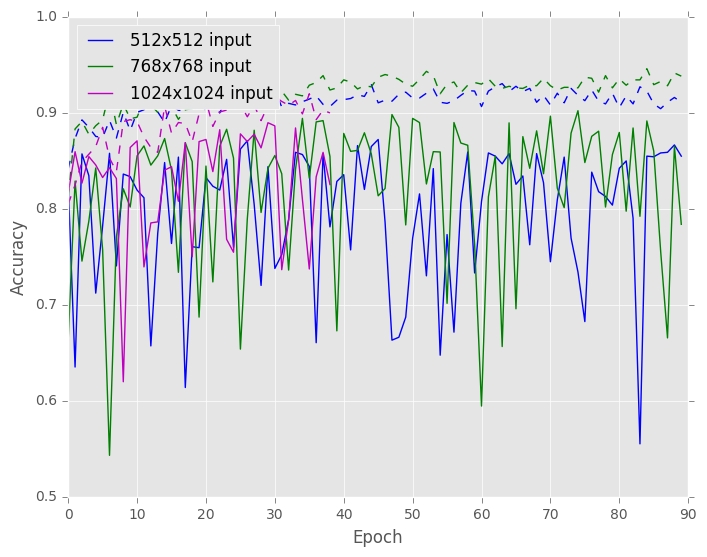
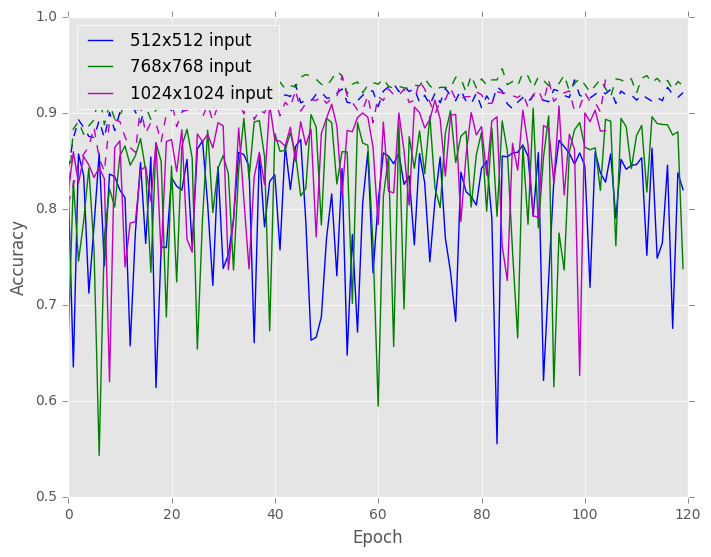
Add results of stacked networks

diff --git a/tex/article.tex b/tex/article.tex
@@ -488,10 +488,8 @@ Increasingly, slides of human tissue are digitized instead of being analysed onl
 
 Visual microscopic interpretation of tissue sections is laborious and prone to subjectivity. \emph{Computer-aided diagnosis (CAD)} has a huge potential in alleviating shortcomings of human interpretation and will reduce the workload of the pathologists. As a result, more accurate diagnostic information may be extracted, helping clinicians in selecting the most optimal treatment for individual patients. CAD can facilitate diagnosis by sieving out obviously benign slides and providing quantitative characterization of suspicious areas.
 
-\subsection{DCIS and IDC}
-A lesion is considered to be a DCIS when there is a proliferation of malignant epithelial cells within the breast parenchymal structures. When these cells are no longer contained within this basement membrane, the carcinoma is invasive and is classified as an invasive ductal carcinoma (IDC) \cite{ellis2010intraductal}.
-
-
+\subsection{Domain? (needs better title)}
+A lesion is considered to be a DCIS when there is a proliferation of malignant epithelial cells within the breast parenchymal structures. When these cells are no longer contained within this basement membrane, the carcinoma is invasive and is classified as an invasive ductal carcinoma (IDC) \cite{ellis2010intraductal}. 
 
 \begin{figure*}[!t]
 \centering
@@ -500,7 +498,7 @@ A lesion is considered to be a DCIS when there is a proliferation of malignant e
 %\hfil
 %\subfloat[Case II]{\includegraphics[width=2.5in]{box}%
 %\label{fig_second_case}}
-\caption{Examples from the three classes we aim to distinguish. (a) Normal tissue and benign lesions. From top-to-bottom, left-to-right: lymphocytes?? with connective tissue surrounding it, mostly fatty tissue, healthy mammal ducts, a ductal hyperplasia which is very similar in appearance to a DCIS lesion. (b) Ductal carcinoma in situ (DCIS), note that the tumor cells are contained within the duct structure. (c) Invasive ductal carcinoma (IDC).}
+\caption{Examples from the three classes we aim to distinguish. (a) Normal tissue and benign lesions. From top-to-bottom, left-to-right: ?? with connective tissue surrounding it, mostly fatty tissue, healthy mammal ducts, a ductal hyperplasia which is very similar in appearance to a DCIS lesion. (b) Ductal carcinoma in situ (DCIS), note that the tumor cells are contained within the duct structure. (c) Invasive ductal carcinoma (IDC).}
 \end{figure*}
 
 \subsection{Patch-based classification}
@@ -873,36 +871,7 @@ IDC&2307& 432\\
 
 
 \input{tables/table_accuracy_224}
-
-
-\begin{table}[!t]
-%% increase table row spacing, adjust to taste
-\renewcommand{\arraystretch}{1.1}
-% if using array.sty, it might be a good idea to tweak the value of
-% \extrarowheight as needed to properly center the text within the cells
-\caption{Best epoch patch-level accuracy of stacked networks}
-\label{table_results_stacked}
-\centering
-%% Some packages, such as MDW tools, offer better commands for making tables
-%% than the plain LaTeX2e tabular which is used here.
-\begin{tabular}{|llr|}
-\hline
-\textsc{Input patch size}\pbox{2cm}{}&\textsc{Stacked on}&\textsc{Accuracy}\\
-\hline
-\textit{512x512}&&\\
-&3 Class WRN-4-2& 123\\
-%\hline
-\textit{768x768}&&\\
-&2 Class WRN-4-2&  123\\
-&3 Class WRN-4-2& 123\\
-%\hline
-\textit{1024x1024}&&\\
-&3 Class WRN-4-2& 123\\
-\hline
-
-\end{tabular}
-\end{table}
-
+\input{tables/table_accuracy_stacked}
 
 
 

diff --git a/figures/gen_graphs.py b/figures/gen_graphs.py
@@ -55,10 +55,22 @@ def make_plot(names, labels, colors, title, out_file, max_epoch):
 make_plot(names3, labels3, colors3, title="3 class CNN performance", out_file='output/3class_performance.png', max_epoch=max_epoch)
 make_plot(names2, labels2, colors2, title="2 class CNN performance", out_file='output/2class_performance.png', max_epoch=max_epoch)
 
+names4=['stack_on_2class_768', 'stack_on_3class_768']
+labels4=["Stacked on 2 class", "Stacked on 3 class"]
+colors4=['b','g']
+
+names5=['stack_on_3class_512', 'stack_on_3class_768', 'stack_on_3class_1024']
+labels5=["512x512 input", "768x768 input", "1024x1024 input"]
+colors5=['b', 'g', 'm']
+
+make_plot(names4, labels4, colors4, title="", out_file='output/768_performance.png', max_epoch=120)
+make_plot(names5, labels5, colors5, title="", out_file='output/patch_sizes_performance.png', max_epoch=120)
+
 best = ['{0:.4f}'.format(b) for b in best]
+
 print best
 
-table = r"""
+table224 = r"""
 \begin{table}[!t]
 %% increase table row spacing, adjust to taste
 \renewcommand{\arraystretch}{1.1}
@@ -89,22 +101,45 @@ table = r"""
 #print a % 123, 123, 123, 123, 123, 123, 123
 
 with open('output/table_accuracy_224.tex', 'w') as f:
-    f.write(table)
-
-
-names4=['stack_on_2class_768', 'stack_on_3class_768']
-labels4=["Stacked on 2 class", "Stacked on 3 class"]
-colors4=['b','g']
-
-names5=['stack_on_3class_512', 'stack_on_3class_768', 'stack_on_3class_1024']
-labels5=["512x512 input", "768x768 input", "1024x1024 input"]
-colors5=['b', 'g', 'm']
-
-make_plot(names4, labels4, colors4, title="", out_file='output/768_performance.png', max_epoch=160)
-make_plot(names5, labels5, colors5, title="", out_file='output/patch_sizes_performance.png', max_epoch=160)
+    f.write(table224)
 
 
 
+table_stacked = r"""
+\begin{table}[!t]
+%% increase table row spacing, adjust to taste
+\renewcommand{\arraystretch}{1.1}
+% if using array.sty, it might be a good idea to tweak the value of
+% \extrarowheight as needed to properly center the text within the cells
+\caption{Best epoch patch-level accuracy of stacked networks}
+\label{table_results_stacked}
+\centering
+%% Some packages, such as MDW tools, offer better commands for making tables
+%% than the plain LaTeX2e tabular which is used here.
+\begin{tabular}{|llr|}
+\hline
+\textsc{Input patch size}\pbox{2cm}{}&\textsc{Stacked on}&\textsc{Accuracy}\\
+\hline
+\textit{512x512}&&\\
+&3 Class WRN-4-2& 512PERFORMANCE \\
+%\hline
+\textit{768x768}&&\\
+&2 Class WRN-4-2&  768PERFORMANCE_2 \\
+&3 Class WRN-4-2& 768PERFORMANCE_3\\
+%\hline
+\textit{1024x1024}&&\\
+&3 Class WRN-4-2& 1024PERFORMANCE\\
+\hline
+
+\end{tabular}
+\end{table}
+
+
+""".replace('512PERFORMANCE',best[6]).replace('768PERFORMANCE_2', best[4]).replace(
+    '768PERFORMANCE_3', best[5]).replace('1024PERFORMANCE', best[8])
+
+with open('output/table_accuracy_stacked.tex', 'w') as f:
+    f.write(table_stacked)
 
 
 #metrics_files = 

diff --git a/tex/figures/table_accuracy_stacked.tex b/tex/figures/table_accuracy_stacked.tex
@@ -1,0 +1,30 @@
+
+\begin{table}[!t]
+%% increase table row spacing, adjust to taste
+\renewcommand{\arraystretch}{1.1}
+% if using array.sty, it might be a good idea to tweak the value of
+% \extrarowheight as needed to properly center the text within the cells
+\caption{Best epoch patch-level accuracy of stacked networks}
+\label{table_results_stacked}
+\centering
+%% Some packages, such as MDW tools, offer better commands for making tables
+%% than the plain LaTeX2e tabular which is used here.
+\begin{tabular}{|llr|}
+\hline
+\textsc{Input patch size}\pbox{2cm}{}&\textsc{Stacked on}&\textsc{Accuracy}\\
+\hline
+\textit{512x512}&&\\
+&3 Class WRN-4-2& 0.8723 \\
+%\hline
+\textit{768x768}&&\\
+&2 Class WRN-4-2&  0.8797 \\
+&3 Class WRN-4-2& 0.9050\\
+%\hline
+\textit{1024x1024}&&\\
+&3 Class WRN-4-2& 0.9135\\
+\hline
+
+\end{tabular}
+\end{table}
+
+

diff --git a/tex/tables/table_accuracy_stacked.tex b/tex/tables/table_accuracy_stacked.tex
@@ -1,0 +1,30 @@
+
+\begin{table}[!t]
+%% increase table row spacing, adjust to taste
+\renewcommand{\arraystretch}{1.1}
+% if using array.sty, it might be a good idea to tweak the value of
+% \extrarowheight as needed to properly center the text within the cells
+\caption{Best epoch patch-level accuracy of stacked networks}
+\label{table_results_stacked}
+\centering
+%% Some packages, such as MDW tools, offer better commands for making tables
+%% than the plain LaTeX2e tabular which is used here.
+\begin{tabular}{|llr|}
+\hline
+\textsc{Input patch size}\pbox{2cm}{}&\textsc{Stacked on}&\textsc{Accuracy}\\
+\hline
+\textit{512x512}&&\\
+&3 Class WRN-4-2& 0.8723 \\
+%\hline
+\textit{768x768}&&\\
+&2 Class WRN-4-2&  0.8797 \\
+&3 Class WRN-4-2& 0.9050\\
+%\hline
+\textit{1024x1024}&&\\
+&3 Class WRN-4-2& 0.9135\\
+\hline
+
+\end{tabular}
+\end{table}
+
+
